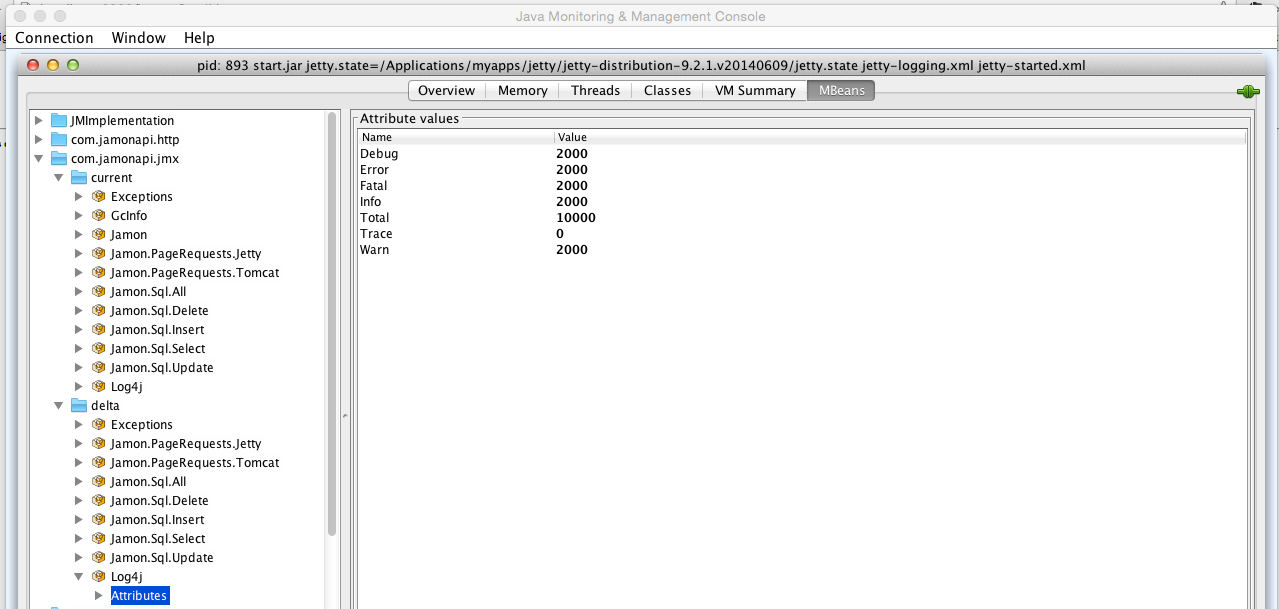
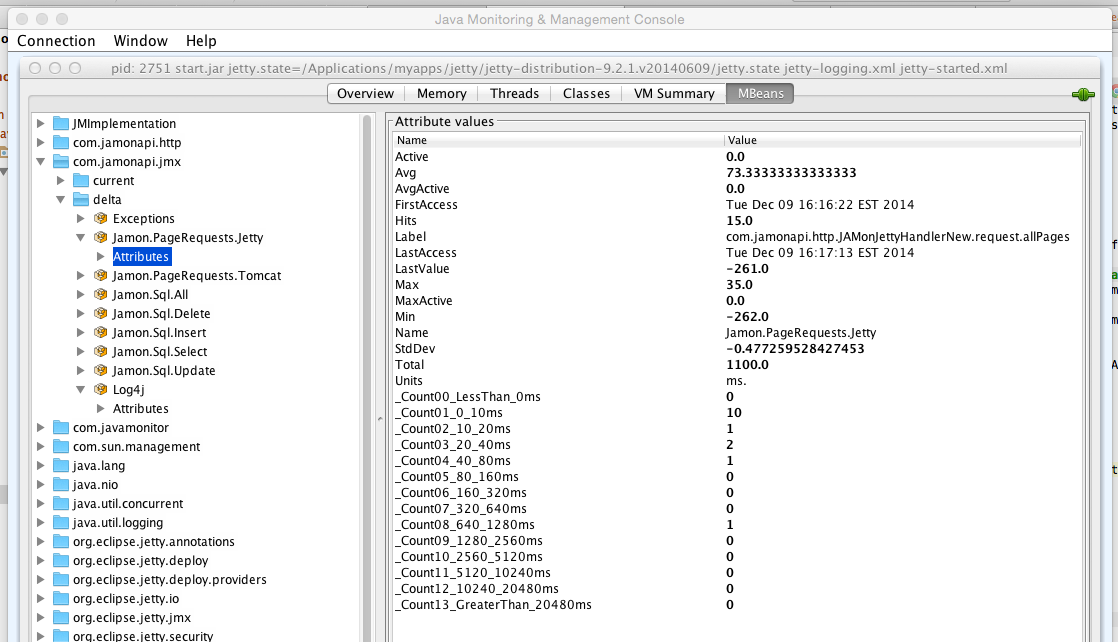
jmx - delta documentation

Changed region(s): [[0.0, 0.0, 1.0, 1.0], [0.6386, 0.8424, 0.6691, 0.8736], [0.6386, 0.7176, 0.6691, 0.7488]]

diff --git a/src/JAMonUsersGuide/jmx_jamon.html b/src/JAMonUsersGuide/jmx_jamon.html
@@ -160,6 +160,18 @@ JMX metrics to still appear they must also be in the jamonapi.properties file.</
     <p><img src="jamon_jmx_managing.png" border="1"></p>
 
 <h2><a name="deltas">8. Deltas</a></h2>
+<p>Normally JAMon numbers continually grow.  Deltas allow a developer to tell how much the JAMon metrics have changed since the
+last time they were checked.  All 'Delta' JMX beans reside within the 'deltas' jmx directory structure as seen below.
+</p>
+
+<p>For example the 'refresh' button was clicked on the Log4j Delta JMX bean below and it indicates that most log methods were
+called 2,000 times since the Delta 'refresh' button was last clicked.  If the 'refresh' button was clicked again and no log methods
+had been called in between refreshes then all the numbers would be 0.</p>
+
+<p><img src="jamon_jmx_deltas_log4j.png" border="1"></p>
+
+<p>The following shows changes in jetty page hits since the 'refresh' button was last clicked.  So 15 page hits occurred during this time interval, and
+their average time per invocation was 73.3 ms. </p>
 
     <p><img src="jamon_jmx_deltas.png" border="1"></p>
 
